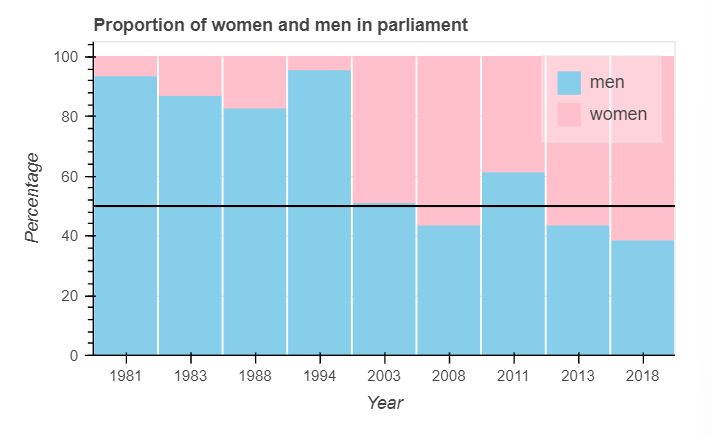
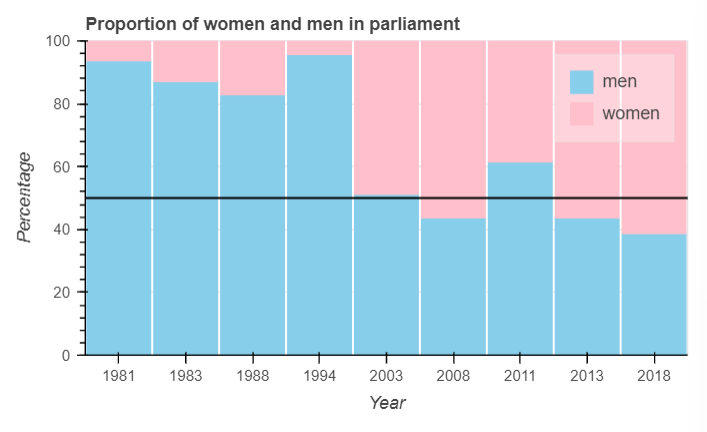
updated README file

Changed region(s): [[0.0, 0.0301, 0.9958, 0.963]]

diff --git a/README.md b/README.md
@@ -319,6 +319,7 @@ You can create a stacked bar chart showing how the proportions have been changin
             height =300,
             toolbar_location = None,
             x_range= df.Year,
+            y_range = (0,100),
             sizing_mode='stretch_width')
 
     p.vbar_stack(['%men', '%women'],
